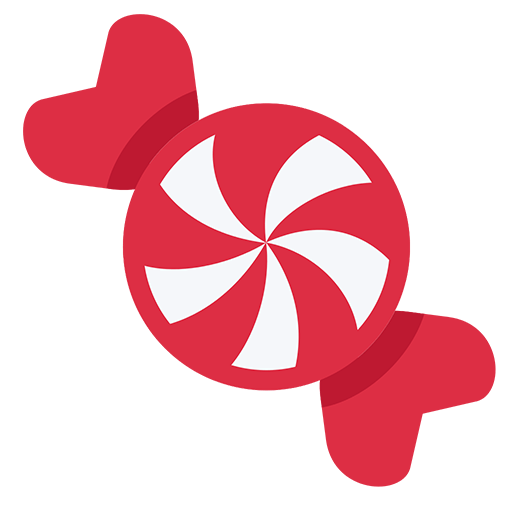
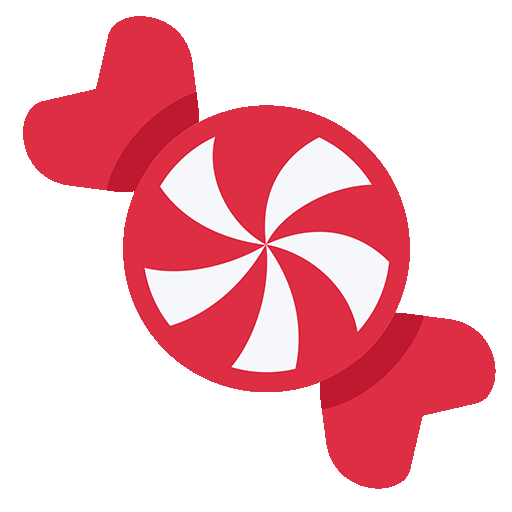
Redesign homepage and fix some stuff

diff --git a/src/components/Video.vue b/src/components/Video.vue
@@ -1,157 +1,149 @@
 <template>
   <div>
-
     <el-row>
       <el-col :span="24">
-        <youtube :video-id="videoId" ref="youtube" @playing="playing" @paused="paused"></youtube><br/>
+        <youtube :video-id="videoId" ref="youtube" @playing="playing" @paused="paused"></youtube>
+        <br />
       </el-col>
     </el-row>
-
 
     <div id="media-bar">
-    <el-row>
-      <el-col :span="2">
-        <el-button @click="playPause" id="play" type="success" v-bind:icon="buttonIcon" circle></el-button>
-      </el-col>
-      <el-col :span="22">
-        <el-slider @change="seekTo" :format-tooltip="formatToolTip" v-bind:max="vidDuration" id="slider" v-model="vidTime"></el-slider>
-      </el-col>
-    </el-row>
+      <el-button @click="playPause" id="play" type="success" v-bind:icon="buttonIcon" circle></el-button>
+      <el-slider
+        @change="seekTo"
+        :format-tooltip="formatToolTip"
+        v-bind:max="vidDuration"
+        id="slider"
+        v-model="vidTime"
+      ></el-slider>
     </div>
-
   </div>
 </template>
 
 <script>
 export default {
-  name: 'Video',
+  name: "Video",
 
-  props:{
+  props: {
     videoId: {
-        type: String,
-        default: 'GMIQ8ZWRQXo',
-        required: true,
+      type: String,
+      default: "GMIQ8ZWRQXo",
+      required: true,
     },
-    bus:{},
+    bus: {},
   },
-     
-  components:{
-  },
+
+  components: {},
   data() {
     return {
-        buttonIcon: 'el-icon-video-play',
-        vidTime: 0,
-        isPlaying: false,
-        vidDuration: 0,
-    }
+      buttonIcon: "el-icon-video-play",
+      vidTime: 0,
+      isPlaying: false,
+      vidDuration: 0,
+    };
   },
-  methods:{
-
-    seekTo(val){
-        this.player.seekTo(val);
+  methods: {
+    seekTo(val) {
+      this.player.seekTo(val);
     },
-      
+
     // FUNCTION TO SWITCH FROM PLAY TO PAUSE AND VICE VERSA
     playPause() {
-      if (this.isPlaying)
-        this.$emit('pause_video')
-      else
-        this.$emit('play_video')
+      if (this.isPlaying) this.$emit("pause_video");
+      else this.$emit("play_video");
     },
 
     // THIS IS RUNS IF THE VIDEO IS PLAYING
     playing() {
-        this.player.playVideo();
-        this.buttonIcon = 'el-icon-video-pause';
-        this.isPlaying = true;
+      this.player.playVideo();
+      this.buttonIcon = "el-icon-video-pause";
+      this.isPlaying = true;
     },
 
     // THIS IS RUNS IF THE VIDEO IS PLAYING
     paused() {
-        this.player.pauseVideo();
-        this.buttonIcon = 'el-icon-video-play';
-        this.isPlaying = false;
+      this.player.pauseVideo();
+      this.buttonIcon = "el-icon-video-play";
+      this.isPlaying = false;
     },
 
-    setCurrentTime(){
-        this.player.getCurrentTime().then((val) => this.vidTime = val);
-        this.getDuration();
+    setCurrentTime() {
+      this.player.getCurrentTime().then((val) => (this.vidTime = val));
+      this.getDuration();
     },
 
-    getDuration(){
-        this.player.getDuration().then((val) => this.vidDuration = val);
+    getDuration() {
+      this.player.getDuration().then((val) => (this.vidDuration = val));
     },
 
     updateTimer: function () {
       window.setInterval(() => {
-          // console.log(this.vidDuration);
-          this.setCurrentTime();
-      }, 1000)
+        // console.log(this.vidDuration);
+        this.setCurrentTime();
+      }, 1000);
     },
 
-    formatToolTip(val){
-        let min = parseInt(val/60);
-        let sec = parseInt(val%60);
-        return min.toString() + ":" + sec.toString();
-    }
+    formatToolTip(val) {
+      let min = parseInt(val / 60);
+      let sec = parseInt(val % 60);
+      return min.toString() + ":" + sec.toString();
+    },
   },
 
-  created () {
-      this.updateTimer();
+  created() {
+    this.updateTimer();
   },
 
   computed: {
-      player() {
-        return this.$refs.youtube.player;
-      }
+    player() {
+      return this.$refs.youtube.player;
+    },
   },
-  mounted(){
-      this.bus.$on('play-video', this.playing);
-      this.bus.$on('pause-video', this.paused);
-  }
-}
-
-
+  mounted() {
+    this.bus.$on("play-video", this.playing);
+    this.bus.$on("pause-video", this.paused);
+  },
+};
 </script>
 
 <style>
-
- #slider{
-  padding-right:2%;
-  padding-left:2%;
-     /* width:54%;    */
-     /* margin-left:5%; */
-  background-color: #FFAEBC;
+#slider {
+  padding-right: 2%;
+  padding-left: 2%;
+  margin-left: 5px;
+  background-color: #ffaebc;
   border-radius: 10px;
- }
+  width: 50%;
+}
 
- #media-bar{
-     display: inline-block;
-     margin-top:1%;
-     /* margin-left:26%;     */
-     width:50%;
- }
- 
+#media-bar {
+  display: flex;
+  justify-content: center;
+  margin-top: 1%;
+}
+
 iframe {
   margin-top: 1%;
-  border: solid #FFAEBC 25px;
+  border: solid #ffaebc 25px;
+  width: 60%;
+  height: 600px;
   border-radius: 25px;
 }
 
-#play{
-  background-color: #FFAEBC; 
+#play {
+  background-color: #ffaebc;
   transform: scale(1.1, 1.1);
-  border:0;
+  border: 0;
 }
 
-#play:hover{
-  background-color: #FF96BC; 
-  border:0;
+#play:hover {
+  background-color: #ff96bc;
+  border: 0;
 }
 
-#play:active{
-  background-color: #FF96BC; 
+#play:active {
+  background-color: #ff96bc;
   transform: scale(0.8, 0.8);
-  border:0;
+  border: 0;
 }
 </style>

diff --git a/src/App.vue b/src/App.vue
@@ -1,30 +1,23 @@
 <template>
   <div id="app">
-      <Candy id="candy"/>
-      <router-view></router-view>
+    <router-view></router-view>
   </div>
 </template>
 
 <script>
-import Candy from "@/components/Candy";
- export default {
-  name: 'App',
-  data(){
-    return{
-    }
+export default {
+  name: "App",
+  data() {
+    return {};
   },
-  components:{
-      Candy
-  },
-}
-
+};
 </script>
 
 <style>
-@import url('https://fonts.googleapis.com/css?family=Roboto+Condensed');
-body{
-  background-color: #A0E7E5;
-  font-family: 'Roboto', sans-serif;
+@import url("https://fonts.googleapis.com/css?family=Roboto+Condensed");
+body {
+  background-color: #a0e7e5;
+  font-family: "Roboto", sans-serif;
 }
 
 #app {
@@ -35,8 +28,4 @@ body{
   color: #2c3e50;
   margin-top: 30px;
 }
-
- #candy{
-     margin-bottom:2%;
- }
 </style>

diff --git a/src/components/Candy.vue b/src/components/Candy.vue
@@ -1,19 +1,32 @@
 <template>
   <div>
-      <img src="../assets/candy.png">
+    <img src="../assets/candy.png" />
   </div>
 </template>
 
 <script>
 export default {
-  name: 'Candy',
-}
+  name: "Candy",
+};
 </script>
 
 <style>
-@import url('https://fonts.googleapis.com/css?family=Roboto+Condensed');
+@import url("https://fonts.googleapis.com/css?family=Roboto+Condensed");
 
- img{
-     width:80px;
- }
+img {
+  width: 150px;
+  animation: rotation 1.5s infinite linear;
+}
+
+@keyframes rotation {
+  0% {
+    transform: rotate(-60deg);
+  }
+  50% {
+    transform: rotate(-35deg);
+  }
+  100% {
+    transform: rotate(-60deg);
+  }
+}
 </style>

diff --git a/babel.config.js b/babel.config.js
@@ -1,5 +1,3 @@
 module.exports = {
-  presets: [
-    '@vue/cli-plugin-babel/preset'
-  ]
-}
+  presets: ["@vue/cli-plugin-babel/preset"]
+};
